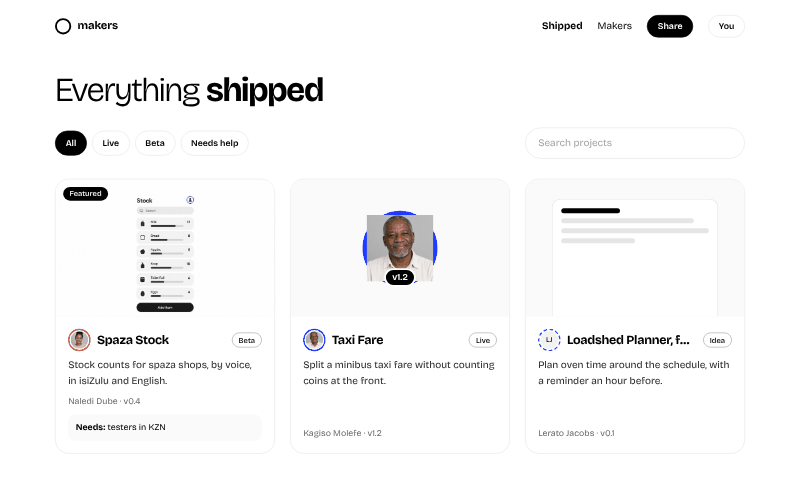
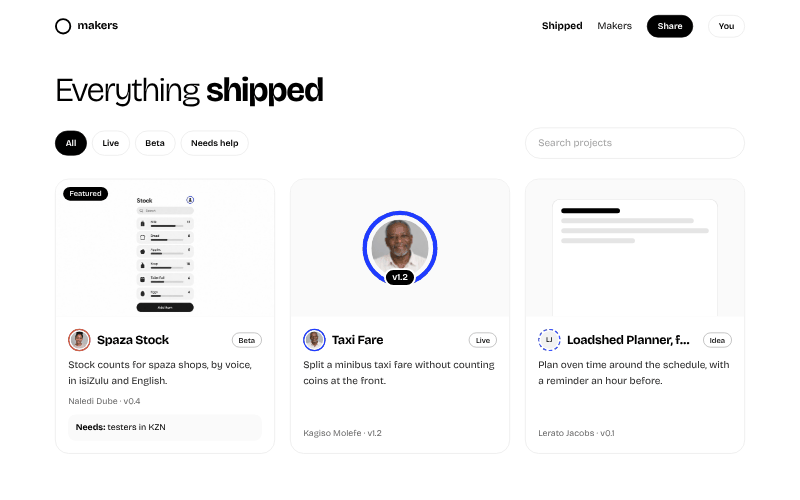
Keep photos round inside marks that sit in card media
A mark placed in .dui-card__media picked up the media rule for images
(absolute, full size), so its photo showed as a square over the ring.
The media rule now applies to direct child images only, and mark photos
reset position and clip to a circle.

Claude-Session: https://claude.ai/code/session_01Gb5DdVdYJ4YYsKsMtTtREK

Changed region(s): [[0.4375, 0.42, 0.5625, 0.57]]

diff --git a/skills/distinctui/assets/distinctui.css b/skills/distinctui/assets/distinctui.css
@@ -384,7 +384,7 @@ input[type="range"].dui-range { accent-color: var(--dui-black); width: 100%; }
 a.dui-card:hover, .dui-card[data-link]:hover { border-color: var(--dui-black); }
 .dui-card--flush { padding: 0; overflow: hidden; gap: 0; }
 .dui-card__media { position: relative; aspect-ratio: 16 / 10; background: var(--dui-grey-100); }
-.dui-card__media img { position: absolute; inset: 0; width: 100%; height: 100%; object-fit: cover; object-position: top; }
+.dui-card__media > img { position: absolute; inset: 0; width: 100%; height: 100%; object-fit: cover; object-position: top; }
 .dui-card__body { display: flex; flex: 1; flex-direction: column; gap: 0.625rem; padding: var(--dui-space-5); }
 .dui-card__title { margin: 0; font-size: var(--dui-text-2xl); line-height: 1.15; font-weight: 700; letter-spacing: -0.03em; display: -webkit-box; -webkit-line-clamp: 2; -webkit-box-orient: vertical; overflow: hidden; }
 .dui-card__text { margin: 0; color: var(--dui-grey-800); display: -webkit-box; -webkit-line-clamp: 3; -webkit-box-orient: vertical; overflow: hidden; }
@@ -449,7 +449,7 @@ a.dui-card:hover, .dui-card[data-link]:hover { border-color: var(--dui-black); }
   font-weight: 500;
   font-size: calc(var(--mark-size) * 0.32);
 }
-.dui-mark__inner img { width: 100%; height: 100%; object-fit: cover; }
+.dui-mark .dui-mark__inner img { position: static; display: block; width: 100%; height: 100%; border-radius: 50%; object-fit: cover; }
 .dui-mark__version {
   position: absolute;
   bottom: calc(var(--mark-size) * -0.08);
